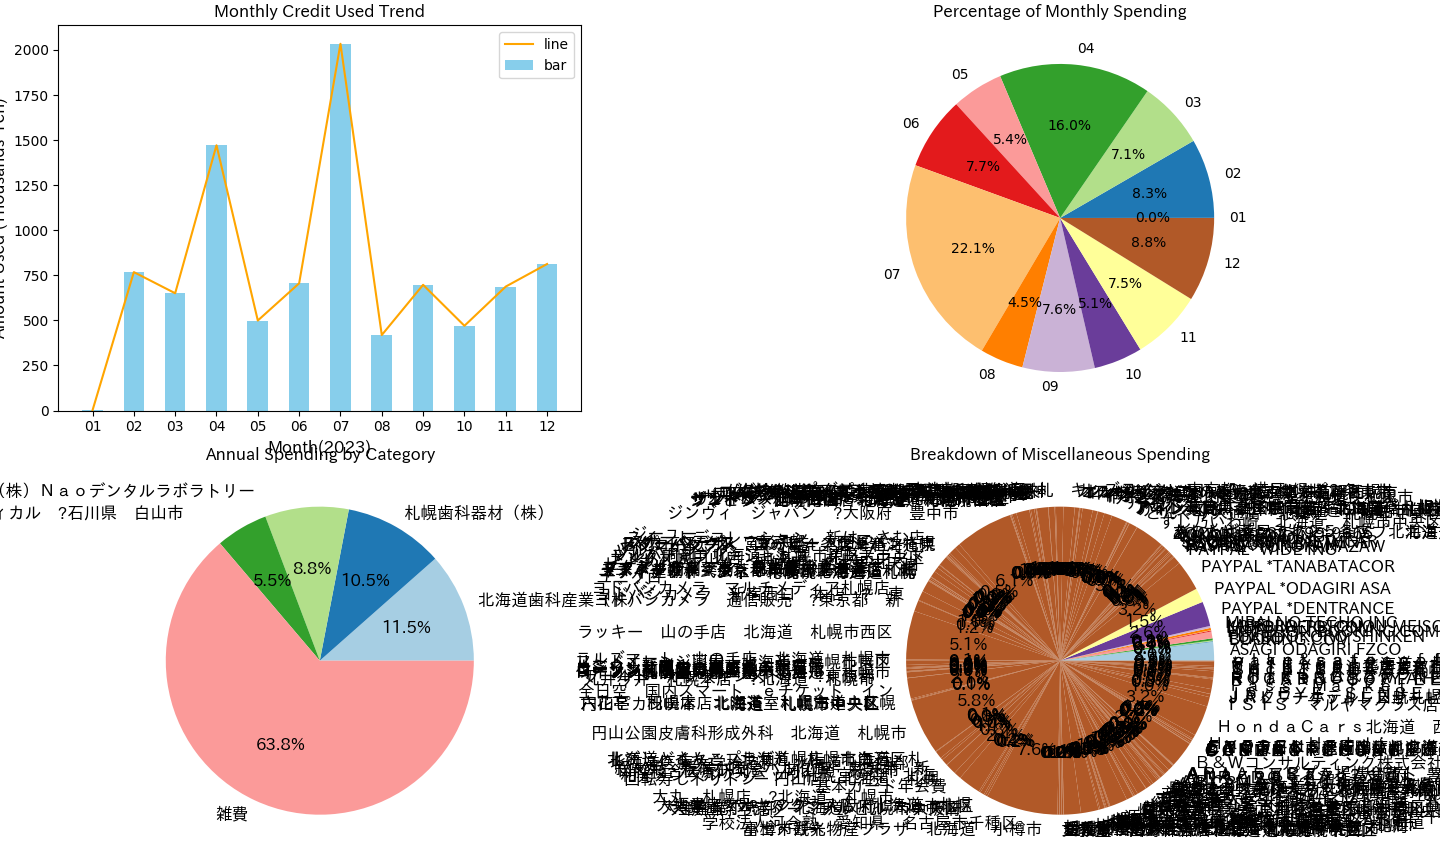
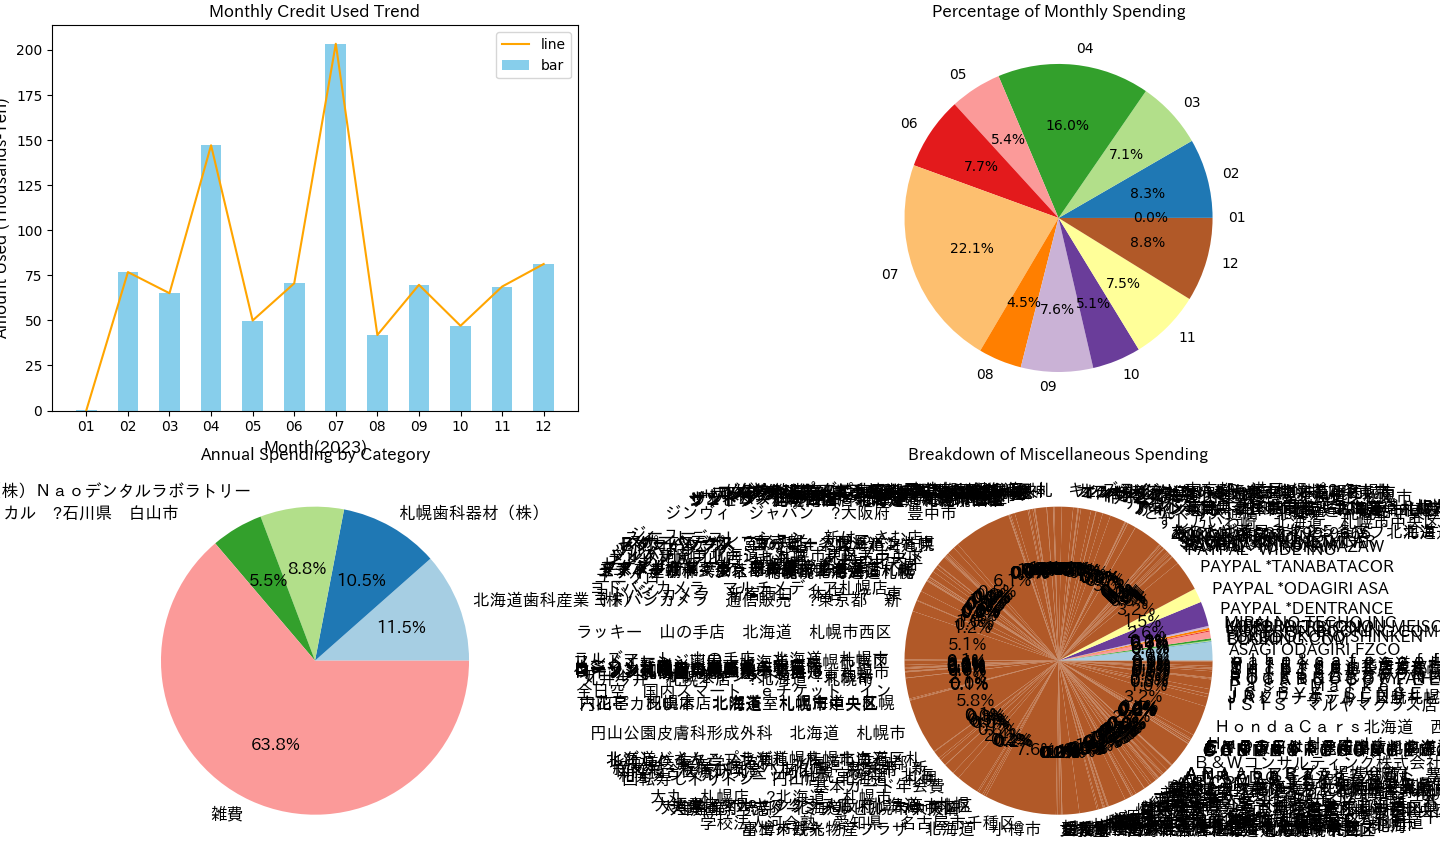
グラフの単位をKから10Kに変更した.

diff --git a/all_conbined_credit_csv_analysis.py b/all_conbined_credit_csv_analysis.py
@@ -80,7 +80,8 @@ class Yearly_Credit_Analysis:
         #print(f"monthly_data = \n{monthly_data}") # ← Pandas Seriesというデータ型.
 
         # 単位をK単位に変換する.
-        monthly_data_transformed = monthly_data.apply(lambda x: x / 1000)
+        # 10K(万)単位に変更
+        monthly_data_transformed = monthly_data.apply(lambda x: x / 10000)
 
         # 日付形式を変更する.今回は%mにする. 年は2023に固定されているので表示する必要はない.
         monthly_data_transformed.index = monthly_data_transformed.index.strftime('%m')
